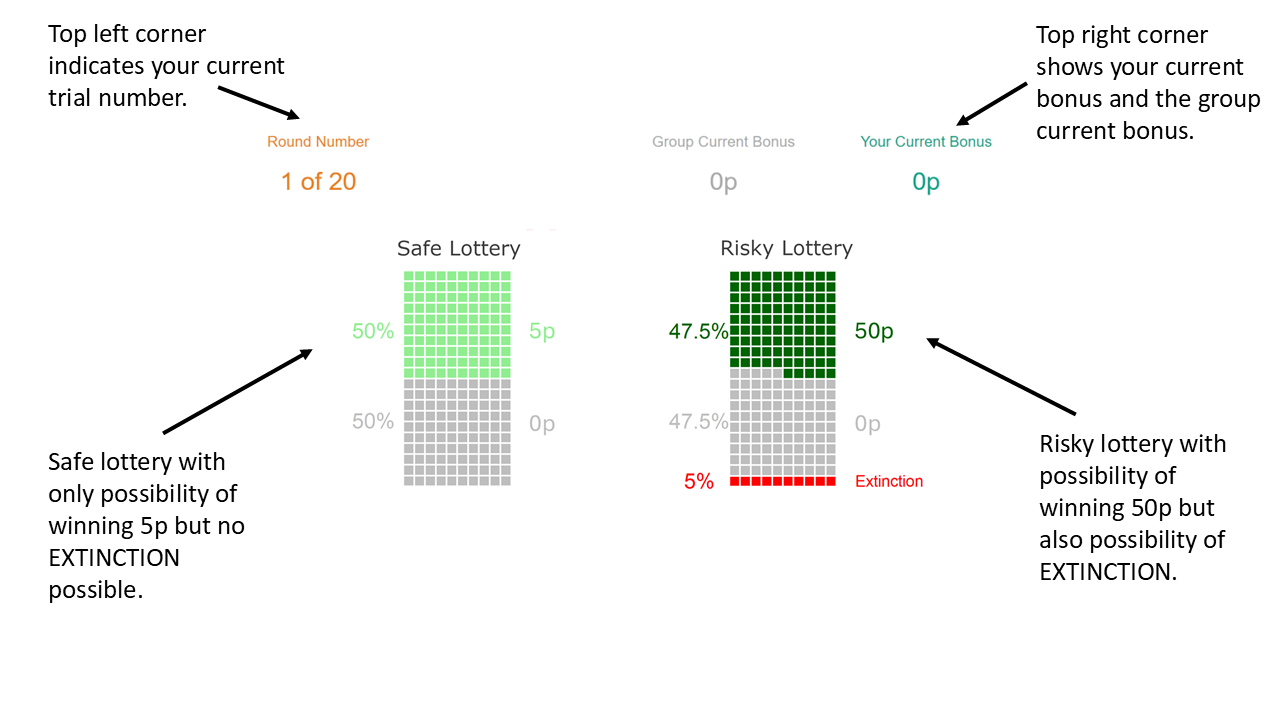
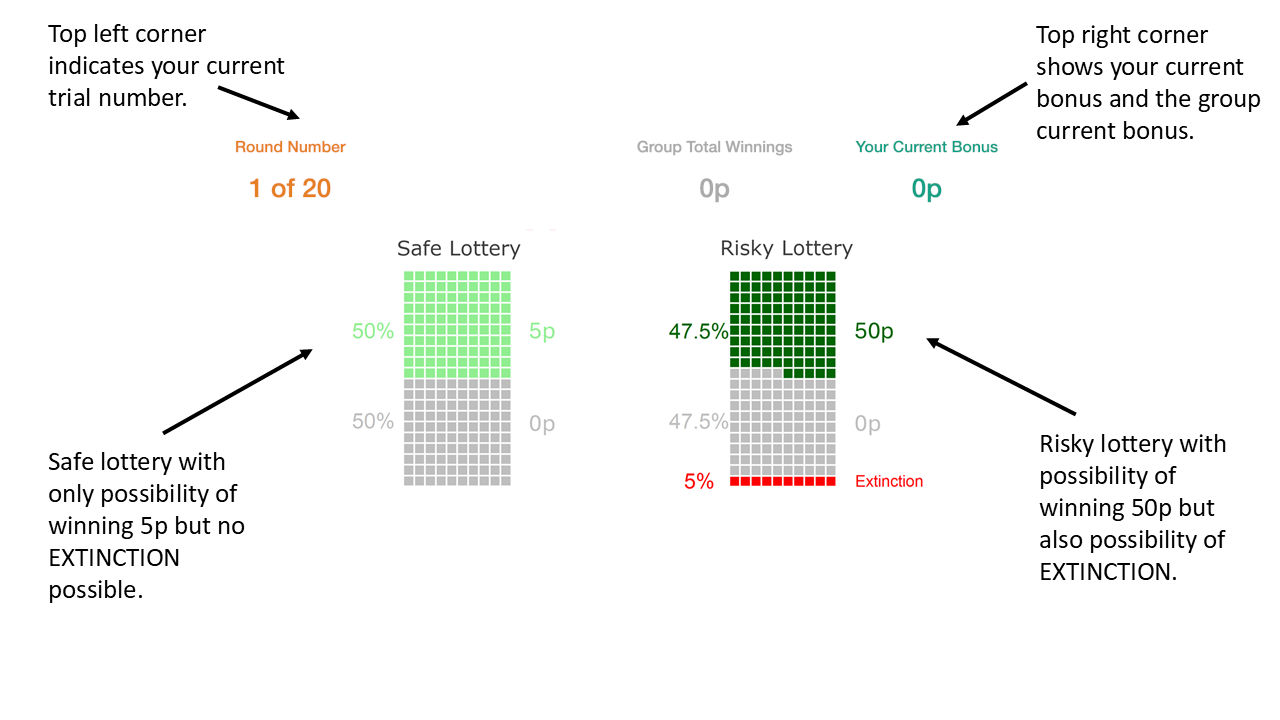
Updaed game intsutrions picture, and fixed a couple of references to the old voting paradigm

diff --git a/_templates/global/Result.html b/_templates/global/Result.html
@@ -14,15 +14,15 @@
     {% if player.participant.game_extinct %}
         <div class="alert alert-danger" role="alert">
             {% if C.NAME_IN_URL == "practice_group" %}
-                    <p><strong>You are extinct!</strong> One of your group has drawn the extinction outcome. This is just a practice game. If this happens in the real game, then you will not earn any bonus, and you will still need to continue playing the remaining rounds to get the base payment.</p>
+                    <p><strong>You are extinct!</strong> Your group has drawn the extinction outcome. This is just a practice game. If this happens in the real game, then you will not earn any bonus, and you will still need to continue playing the remaining rounds to get the base payment.</p>
             {% else %}
-                <p><strong>You are extinct!</strong> One of your group has drawn the extinction outcome. You will still need to continue playing the remaining rounds to get the base payment.
+                <p><strong>You are extinct!</strong> Your group has drawn the extinction outcome. You will still need to continue playing the remaining rounds to get the base payment.
             However, you will not earn any bonus.</p>
             {% endif %}
         </div>
     {% else %}
         <div class="alert alert-success" role="alert">
-            None of your group drew the extinction outcome.
+            Your group did not draw the extinction outcome.
         </div>
 
         {% if player.participant.last_result == 0 %}

diff --git a/payment/PostSurvey.html b/payment/PostSurvey.html
@@ -9,7 +9,7 @@
 
   <div class="row">
     <div class="col-md-8 offset-md-2">
-        <p>Finally, please answer a quick question about the game.</p>
+        <p>Please answer questions about the game.</p>
 
       
 {{ formfields }}

diff --git a/settings.py b/settings.py
@@ -1,37 +1,53 @@
 from os import environ
 
+FULL_EXPERIMENT = ['consent', 'instructions', 'practice_group', 'practice_indy', 'game_group', 'game_indy', 'payment']
+
 SESSION_CONFIGS = [
     dict(
-        name='instuctions',
-        app_sequence=['instructions'],
+        name='full_experiment',
+        display_name='Full experiment, random assignment (for testing)',
+        app_sequence=FULL_EXPERIMENT,
+        num_demo_participants=10,
+    ),
+    dict(
+        name='demo_individual',
+        display_name='Individual',
+        app_sequence=FULL_EXPERIMENT,
+        num_demo_participants=1,
+        condition='indy',
+    ),
+    dict(
+        name='demo_group_no_info',
+        display_name='Group, independent choices, no strategy information',
+        app_sequence=FULL_EXPERIMENT,
         num_demo_participants=5,
+        condition='group',
+        information='none',
     ),
     dict(
-        name='game_group',
-        app_sequence=['game_group'],
-        num_demo_participants=10,
-    ),
-    dict(
-        name='practice_group',
-        app_sequence=['practice_group'],
-        num_demo_participants=10,
-    ),
-    dict(
-        name='payment',
-        app_sequence=['payment'],
+        name='demo_group_optimal',
+        display_name='Group, independent choices, with optimal strategy information',
+        app_sequence=FULL_EXPERIMENT,
         num_demo_participants=5,
+        condition='group',
+        information='optimal',
     ),
     dict(
-        name="full_experiment",
-        app_sequence=['consent', 'instructions', 'practice_group', 'practice_indy', 'game_group', 'game_indy', 'payment'],
-        num_demo_participants=10,
+        name='demo_voting_no_info',
+        display_name='Group, voting, no strategy information',
+        app_sequence=FULL_EXPERIMENT,
+        num_demo_participants=5,
+        condition='voting',
+        information='none',
     ),
-    dict(name="full_experiment_voting_with_info",
-        app_sequence=['consent', 'instructions', 'practice_group', 'practice_indy', 'game_group', 'game_indy', 'payment'],
-        num_demo_participants=10,
-        condition="voting",
-        information="optimal"
-    )
+    dict(
+        name='demo_voting_optimal',
+        display_name='Group, voting, with optimal strategy information',
+        app_sequence=FULL_EXPERIMENT,
+        num_demo_participants=5,
+        condition='voting',
+        information='optimal',
+    ),
 ]
 
 # if you set a property in SESSION_CONFIG_DEFAULTS, it will be inherited by all configs

diff --git a/game_group/__init__.py b/game_group/__init__.py
@@ -157,7 +157,7 @@ def expected_value_strategy(n_risky, group_balance = 0, n_rounds=100, p_survive=
 
 def get_optimal_n_riskys(total_rounds_left, group_balance=0):
 
-	n_riskys = list(range(total_rounds_left))
+	n_riskys = list(range(total_rounds_left + 1))
 	expected_values = [expected_value_strategy(n_risky, group_balance=group_balance, n_rounds=total_rounds_left) for n_risky in n_riskys]
 
 	# Get max n_riskys
